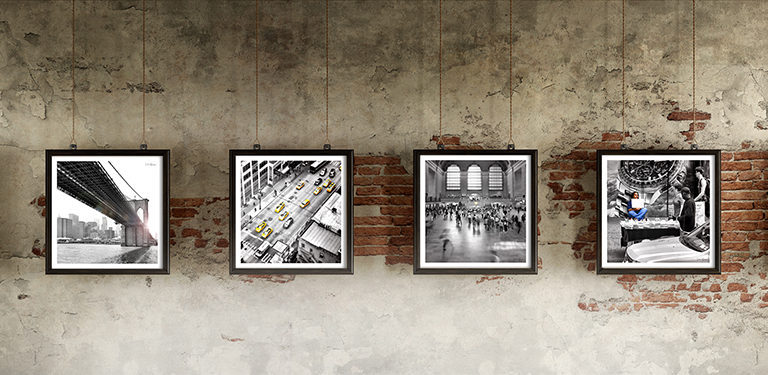
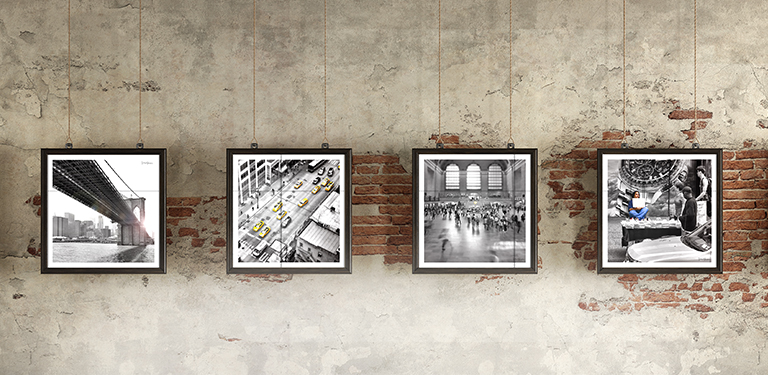
New slideshow images

diff --git a/assets/data/main.js b/assets/data/main.js
@@ -3,40 +3,54 @@ export default {
     slides: [
       {
         image: 'slideshow/1',
-        title: 'Reason to change your wall',
         color: 'black',
         position: 'center bottom'
       },
       {
         image: 'slideshow/2',
-        title: 'Vivid colors',
         color: 'white',
         position: 'center bottom'
       },
       {
         image: 'slideshow/3',
-        title: 'Create your own space',
         color: '#4e4e4e',
-        position: 'right bottom'
+        position: 'center bottom'
+      },
+      {
+        image: 'slideshow/4',
+        color: '#4e4e4e',
+        position: 'center bottom'
+      },
+      {
+        image: 'slideshow/5',
+        color: '#4e4e4e',
+        position: 'center bottom'
+      },
+      {
+        image: 'slideshow/6',
+        color: '#4e4e4e',
+        position: 'center bottom'
+      },
+      {
+        image: 'slideshow/7',
+        color: '#4e4e4e',
+        position: 'center bottom'
+      },
+      {
+        image: 'slideshow/8',
+        color: '#4e4e4e',
+        position: 'center bottom'
+      },
+      {
+        image: 'slideshow/9',
+        color: '#4e4e4e',
+        position: 'center bottom'
+      },
+      {
+        image: 'slideshow/10',
+        color: '#4e4e4e',
+        position: 'center bottom'
       }
-      // {
-      //   image: 'products/000708/main.jpg',
-      //   title: 'Unique ideas for modern look',
-      //   color: 'white',
-      //   position: 'left bottom'
-      // },
-      // {
-      //   image: 'products/000700/main.jpg',
-      //   title: 'Exceptional style',
-      //   color: 'white',
-      //   position: 'center bottom'
-      // },
-      // {
-      //   image: 'products/000705/main.jpg',
-      //   title: 'Gallery quality',
-      //   color: 'black',
-      //   position: 'center bottom'
-      // }
     ]
   },
   prices: [

diff --git a/components/Slideshow.vue b/components/Slideshow.vue
@@ -16,9 +16,12 @@
               <source :srcset="require(`@/assets/${slide.image}_small.jpg`)" media="(min-width: 769px)">
               <img :src="require(`@/assets/${slide.image}_xs.jpg`)" />
             </picture>
-            <div class="slideshow__slide-text" :style="`color: ${slide.color}`"> 
-              <h2>{{slide.title}}</h2>
-            </div>
+
+            <template v-if="slide.title">
+              <div class="slideshow__slide-text" :style="`color: ${slide.color}`"> 
+                <h2>{{slide.title}}</h2>
+              </div>
+            </template>
           </div>
       </div>
     </div>
@@ -210,7 +213,7 @@ export default {
         width: 100%;
         height: 100%;
         position: absolute;
-        background: rgba(0,0,0,0.35);
+        //background: rgba(0,0,0,0.35);
       }
 
       img {
